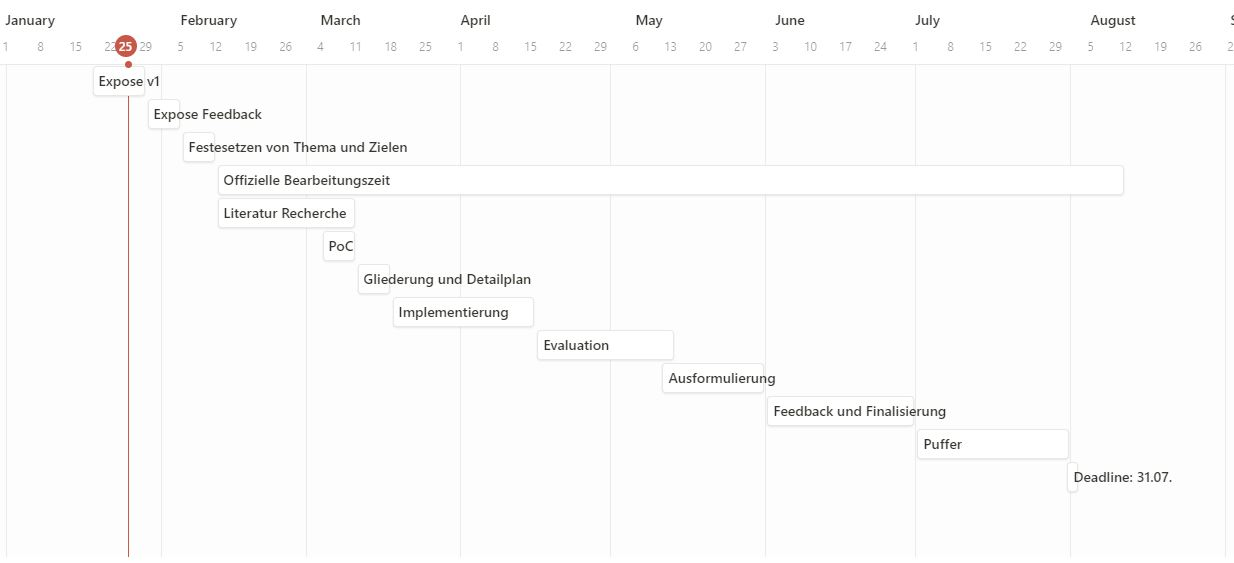
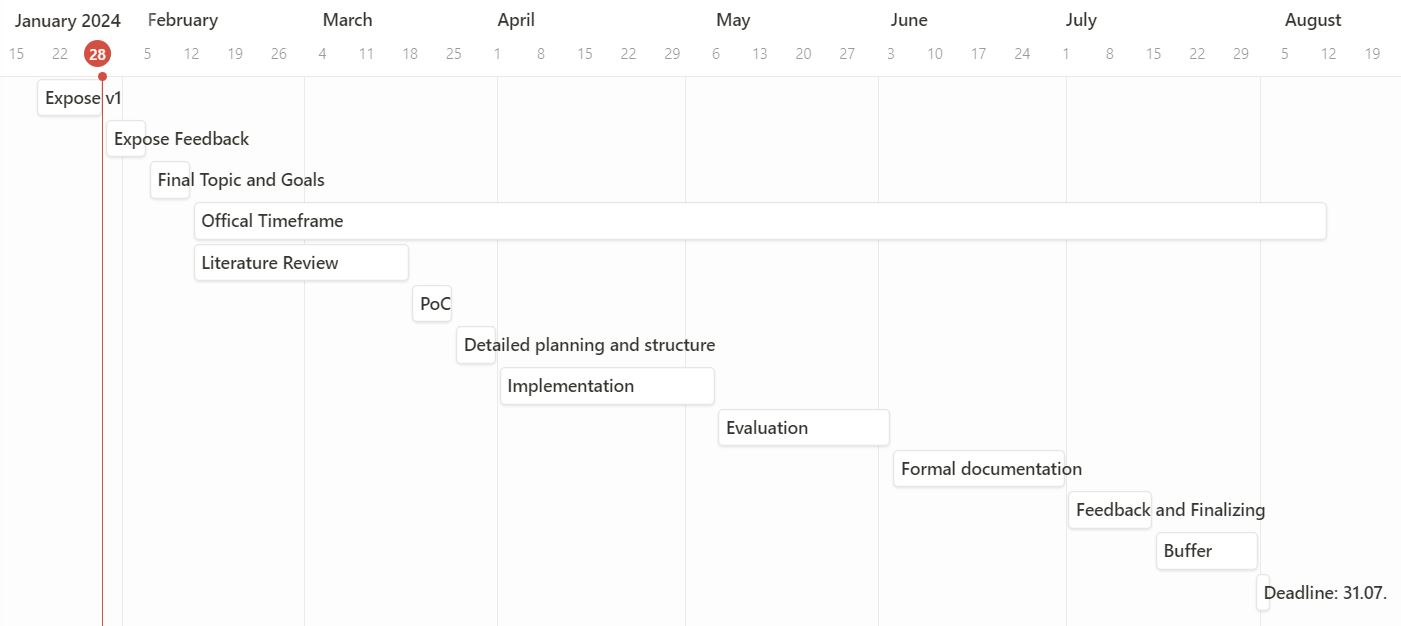
Add content

diff --git a/expose/chapters/chap2.tex b/expose/chapters/chap2.tex
@@ -1,115 +1,23 @@
-\chapter{Hardware and Softwarestack}\label{ch:hardware-and-softwarestack}
+\chapter{Timeframe}
+A preliminary timeframe of the project can be seen below, spanning a total of 24 weeks with a 2-week buffer included at the end.
+A graphical representation is provided in figure~\ref{fig:timeline}
 
-
-\section{Overview}\label{sec:overview}
-
-The mobile application will be developed for Android and tested using a Google Pixel 7.
-It will be coded in Kotlin using Android Studio.
-
-The Google ARCore API will be used to access depth information about a scene.
-The API is available by default -- no additional libraries are required.
-
-Algorithms will be implemented in C\texttt{++} in the \texttt{procedural-augmented-reality} project provided by Prof. Dr. Phillipp Jenke.
-The project will be embedded into the application and will be called through a binding layer from Kotlin.
-
-
-\section{Google ARCore SDK}
-
-ARCore is an Augmented Reality (AR) software development kit (SDK) designed by Google for multiple platforms including Android.
-It supports multiple tools like motion tracking, anchor tracking, surface tracking, depth perception and light estimation.
-\parencite{arcore}
-For the purposes of the topic of this thesis, depth understanding is the most important part,
-as it provides depth information which can be used to run algorithms for primitive detection on.
-
-\subsection{Depth API}
-Googles documentation~\parencite{arcore-doc-depth} summarizes the features of the Depth API the following way:
-
-\textit{
-    The Depth API uses a depth-from-motion algorithm to create depth images, which give a 3D view of the world.
-    Each pixel in a depth image is associated with a measurement of how far the scene is from the camera.
-    This algorithm takes multiple device images from different angles and compares them to estimate the distance to every pixel as a user moves their phone.
-    It selectively uses machine learning to increase depth processing, even with minimal motion from a user.
-    It also takes advantage of any additional hardware a user’s device might have.
-    If the device has a dedicated depth sensor, such as ToF, the algorithm automatically merges data from all available sources.
-}
-
-The device used for development (Google Pixel 7) is not equipped with a depth sensor, thus the Depth API will solely rely on cameras depth-from-motion to generate depth information.
-The inherent pitfall of camera based depth-from-motion is that tracking objects with little to no texture like walls will not yield good result.
-This might pose challenges, depending on the specific use case to be examined in the thesis.
-If, for example, objects like boxes or spheres with little to no texture are to be recognized,
-the depth API might not return sufficiently accurate depth information to correctly recognize them.
-
-\subsubsection{API Details}
-The Depth API provides the two APIs, as described by \citetitle{arcore-doc-raw-depth}~\parencite{arcore-doc-raw-depth}:
 \begin{enumerate}
-    \item The Raw Depth API provides "raw depth images that contain a very accurate depth estimate for some, but not all, pixels in the camera image."
-    It also provides a "confidence image that gives the confidence for every raw depth images pixel".
-    \item The Full Depth API provides a "single 'smoothed' depth image that contains a depth estimate for every pixel."
+    \item Official start -- 12.02.2024
+    \item Literature review -- 5 weeks
+    \item First Proof of Concept (PoC) -- 1 week
+    \item Detailed planning and structure -- 1 week
+    \item Implementation -- 5 weeks
+    \item Evaluation -- 4 weeks
+    \item Formal documentation of bachelor thesis -- 4 weeks
+    \item Feedback and finalizing -- 2 weeks
+    \item Buffer -- 2 weeks
+    \item Personal deadline 31.07.2024
+    \item Official deadline 12.08.2024 (Assuming official start on 12.02.2024)
 \end{enumerate}
 
-Example images of the two APIs can be seen in figure~\ref{fig:depth-api-images}
-
-The Raw Depth API seems to be the better choice for the use case of analyzing 3D data, as it provides more accurate data.
-The choice between the APIs needs to be investigated further for the final implementation.
-
-\subsubsection{Calculating 3D Point Cloud based on Depth Images}
-As the Depth API returns depth images and not point clouds, every pixel needs to be projected into 3D space using the camera intrinsics.
-The~\citetitle[p. 5]{arcore-codelab-rawdepth} provides an example implementation called \textit{convertRawDepthImagesTo3dPointBuffer} that solves this problem.
-
-
-
-\begin{figure}[ht!]
+\begin{figure}[t]
     \centering
-    % First row
-    \begin{subfigure}[b]{0.4\textwidth}
-        \centering
-        \includegraphics[width=0.8\linewidth]{images/depth_full-depth-image}
-        \caption{Full Depth API Depth Image}
-    \end{subfigure}%
-    \begin{subfigure}[b]{0.4\textwidth}
-        \centering
-        \includegraphics[width=0.8\linewidth]{images/depth_camera-image}
-        \caption{Camera image}
-    \end{subfigure}%
-
-    % Optional: Adjust or remove vertical spacing between the rows
-    \vspace{0.5em}
-
-    % Second row
-    \begin{subfigure}[b]{0.4\textwidth}
-        \centering
-        \includegraphics[width=0.8\linewidth]{images/depth_raw-depth-image}
-        \caption{Raw Depth API Depth Image}
-    \end{subfigure}%
-    \begin{subfigure}[b]{0.4\textwidth}
-        \centering
-        \includegraphics[width=0.8\linewidth]{images/depth_raw-depth-confidence-image}
-        \caption{Raw Depth API Confidence Image}
-    \end{subfigure}%
-
-    \caption{Full Depth vs. Raw Depth}
-    \label{fig:depth-api-images}
-\end{figure}
-
-\subsection{Confirming Compatibility with Device}
-
-The quickstart section of the documentation of the \citetitle{arcore-depth-quickstart}~\parencite{arcore-depth-quickstart} provides a sample application named \texttt{hello\_ar\_kotlin}.
-The \texttt{hello\_ar\_kotlin} application has been confirmed to run on the hardware mentioned in section~\ref{sec:overview}.
-Screenshots of the running sample application can be seen in figure~\ref{fig:hello_world_screenshot}.
-
-
-\begin{figure}[ht!]
-    \centering
-    \begin{subfigure}[t]{.45\textwidth}
-        \centering
-        \includegraphics[width=.8\textwidth]{images/depth_api_hello_world_depth}
-        \caption{Depth image, colors represent depth}
-    \end{subfigure}\hfill
-    \begin{subfigure}[t]{.45\textwidth}
-        \centering
-        \includegraphics[width=.8\textwidth]{images/depth_api_hello_world_img}
-        \caption{Full color reference. Floor is recognized as surface.}
-    \end{subfigure}
-    \caption{Screenshots of the \texttt{hello\_ar\_kotlin} sample application running on a Google Pixel 7}
-    \label{fig:hello_world_screenshot}
-\end{figure}
+    \makebox[\textwidth][c]{\includegraphics[width=1.2\textwidth]{images/timeline}}%
+    \caption{Timeline}\label{fig:timeline}
+\end{figure}%

diff --git a/expose/chapters/chap3.tex b/expose/chapters/chap3.tex
@@ -1,7 +1,116 @@
-\chapter{Timeline}
-A timeline of the project timeframe can be seen in figure~\ref{fig:timeline}
-\begin{figure}[t]
+\chapter{Hard- and Softwarestack}\label{ch:hardware-and-softwarestack}
+
+
+\section{Overview}\label{sec:overview}
+
+The mobile application will be developed for Android and tested using a Google Pixel 7.
+The implementation will be carried out in Kotlin using the Android Studio integrated development environment (IDE).
+
+The Google ARCore SDK will be used to access depth information about a scene.
+The SDK is available by default -- no additional libraries are required.
+
+Algorithms will be implemented in C\texttt{++} in the \texttt{procedural-augmented-reality} project provided by Prof. Dr. Phillipp Jenke.
+This project will be integrated into the application and interfaced with Kotlin through a binding layer.
+
+
+\section{Google ARCore SDK}
+
+Google's ARCore is a comprehensive Augmented Reality (AR) software development kit (SDK)  for multiple platforms including Android.
+It encompasses a broad array of features including motion tracking, anchor tracking, surface tracking, depth perception, and light estimation.
+\parencite{arcore}
+For the purposes of the topic of this thesis, the depth understanding functionality will be the main focus,
+This thesis will primarily utilize ARCore's depth perception capability,
+which provides the depth data required for the geometric primitive detection algorithms.
+
+\subsection{Depth API}
+Googles documentation~\parencite{arcore-doc-depth} summarizes the features of the Depth API the following way:
+
+\textit{
+    The Depth API uses a depth-from-motion algorithm to create depth images, which give a 3D view of the world.
+    Each pixel in a depth image is associated with a measurement of how far the scene is from the camera.
+    This algorithm takes multiple device images from different angles and compares them to estimate the distance to every pixel as a user moves their phone.
+    It selectively uses machine learning to increase depth processing, even with minimal motion from a user.
+    It also takes advantage of any additional hardware a user’s device might have.
+    If the device has a dedicated depth sensor, such as ToF, the algorithm automatically merges data from all available sources.
+}
+
+The development device, Google Pixel 7, does not have a depth sensor.
+Consequently, the Depth API will exclusively utilize depth-from-motion techniques to derive depth information from camera images.
+However, it is important to note that camera-based depth-from-motion has limitations when it comes to tracking objects with minimal texture, such as walls.
+This drawback could potentially present challenges depending on the particular use case being investigated in the thesis.
+For instance, if the objective is to recognize objects like boxes or spheres that lack texture, the accuracy of depth information obtained from the Depth API may not be sufficient for accurate recognition.
+
+\subsubsection{API Details}
+The Depth API provides two interfaces, as described by \citetitle{arcore-doc-raw-depth}~\parencite{arcore-doc-raw-depth}:
+\begin{enumerate}
+    \item The Raw Depth API provides "raw depth images that contain a very accurate depth estimate for some, but not all, pixels in the camera image."
+    It also provides a "confidence image that gives the confidence for every raw depth images pixel".
+    \item The Full Depth API provides a "single 'smoothed' depth image that contains a depth estimate for every pixel."
+\end{enumerate}
+
+Example images illustrating the output of the two APIs provided by the Depth API can be seen in figure~\ref{fig:depth-api-images}
+
+The Raw Depth API appears to be the preferable option for the use case of analyzing 3D data, as it provides more accurate data.
+The choice between the APIs needs to be investigated further for the final implementation.
+
+\subsubsection{Calculating 3D Point Cloud based on Depth Images}
+The Depth API produces depth images instead of point clouds, requiring each pixel to be projected into three-dimensional space using camera intrinsics.
+The~\citetitle[p. 5]{arcore-codelab-rawdepth}~\parencite{arcore-codelab-rawdepth} provides a sample implementation called \textit{convertRawDepthImagesTo3dPointBuffer()} which addresses this problem.
+
+
+
+\begin{figure}[ht!]
     \centering
-    \includegraphics[width=\linewidth]{images/timeline}
-    \caption{Timeline}\label{fig:timeline}
-\end{figure}%
+    % First row
+    \begin{subfigure}[b]{0.4\textwidth}
+        \centering
+        \includegraphics[width=0.8\linewidth]{images/depth_full-depth-image}
+        \caption{Full Depth API Depth Image}
+    \end{subfigure}%
+    \begin{subfigure}[b]{0.4\textwidth}
+        \centering
+        \includegraphics[width=0.8\linewidth]{images/depth_camera-image}
+        \caption{Camera image}
+    \end{subfigure}%
+
+    % Optional: Adjust or remove vertical spacing between the rows
+    \vspace{0.5em}
+
+    % Second row
+    \begin{subfigure}[b]{0.4\textwidth}
+        \centering
+        \includegraphics[width=0.8\linewidth]{images/depth_raw-depth-image}
+        \caption{Raw Depth API Depth Image}
+    \end{subfigure}%
+    \begin{subfigure}[b]{0.4\textwidth}
+        \centering
+        \includegraphics[width=0.8\linewidth]{images/depth_raw-depth-confidence-image}
+        \caption{Raw Depth API Confidence Image}
+    \end{subfigure}%
+
+    \caption{Full Depth vs. Raw Depth}
+    \label{fig:depth-api-images}
+\end{figure}
+
+\subsection{Confirming Compatibility with Device}
+
+The quickstart section of the documentation of the \citetitle{arcore-depth-quickstart}~\parencite{arcore-depth-quickstart} provides a sample application named \texttt{hello\_ar\_kotlin}.
+The \texttt{hello\_ar\_kotlin} application has been confirmed to run on the hardware mentioned in section~\ref{sec:overview}.
+Screenshots of the running sample application can be seen in figure~\ref{fig:hello_world_screenshot}.
+
+
+\begin{figure}[ht!]
+    \centering
+    \begin{subfigure}[t]{.45\textwidth}
+        \centering
+        \includegraphics[width=.8\textwidth]{images/depth_api_hello_world_depth}
+        \caption{Depth image, colors represent depth}
+    \end{subfigure}\hfill
+    \begin{subfigure}[t]{.45\textwidth}
+        \centering
+        \includegraphics[width=.8\textwidth]{images/depth_api_hello_world_img}
+        \caption{Full color reference. Floor is recognized as surface.}
+    \end{subfigure}
+    \caption{Screenshots of the \texttt{hello\_ar\_kotlin} sample application running on the development device}
+    \label{fig:hello_world_screenshot}
+\end{figure}

diff --git a/expose/chaptersOther/appendix.tex b/expose/chaptersOther/appendix.tex
@@ -5,18 +5,18 @@
 \printbibliography
 
 % markiert den Anfang des Anhangs
-\appendix
+%\appendix
 
 % ein Kapitel, das nicht numeriert, aber trotzdem ins Inhaltsverzeichnis
 % aufgenommen wird
-\addchap{Anhang}
-
-Hier beginnt der Anhang.  Siehe die Anmerkungen zur Sinnhaftigkeit eines
-Anhangs in Abschnitt~\ref{sec-app} auf Seite~\pageref{sec-app}.
-
-Der Anhang kann wie das eigentliche Dokument in Kapitel und Abschnitte
-unterteilt werden.  Der Befehl \verb|\appendix| sorgt im Wesentlichen nur für
-eine andere Nummerierung.
+%\addchap{Anhang}
+%
+%Hier beginnt der Anhang.  Siehe die Anmerkungen zur Sinnhaftigkeit eines
+%Anhangs in Abschnitt~\ref{sec-app} auf Seite~\pageref{sec-app}.
+%
+%Der Anhang kann wie das eigentliche Dokument in Kapitel und Abschnitte
+%unterteilt werden.  Der Befehl \verb|\appendix| sorgt im Wesentlichen nur für
+%eine andere Nummerierung.
 
 % neue Seite
 \clearpage
@@ -25,18 +25,18 @@ eine andere Nummerierung.
 \thispagestyle{empty}
 
 % keine Nummerierung, keine Aufnahme ins Inhaltsverzeichnis
-\section*{Eigenständigkeitserklärung}
+%\section*{Eigenständigkeitserklärung}
 
 % Hier müssen Sie natürlich den Titel der Arbeit sowie Ort und Datum ersetzen:
-Hiermit versichere ich, dass ich die vorliegende Bachelorarbeit mit dem Titel
-\begin{center}
-  \textbf{Viele zufällige Zahlen}
-\end{center}
-selbstständig und nur mit den angegebenen Hilfsmitteln verfasst habe.  Alle
-Passagen, die ich wörtlich aus der Literatur oder aus anderen Quellen wie
-z.\,B. Internetseiten übernommen habe, habe ich deutlich als Zitat mit Angabe
-der Quelle kenntlich gemacht.
-
-\vspace{2cm}
-
-Hamburg, 21.\ Dezember 1940
+%Hiermit versichere ich, dass ich die vorliegende Bachelorarbeit mit dem Titel
+%\begin{center}
+%  \textbf{Viele zufällige Zahlen}
+%\end{center}
+%selbstständig und nur mit den angegebenen Hilfsmitteln verfasst habe.  Alle
+%Passagen, die ich wörtlich aus der Literatur oder aus anderen Quellen wie
+%z.\,B. Internetseiten übernommen habe, habe ich deutlich als Zitat mit Angabe
+%der Quelle kenntlich gemacht.
+%
+%\vspace{2cm}
+%
+%Hamburg, 21.\ Dezember 1940

diff --git a/expose/chapters/chap1.tex b/expose/chapters/chap1.tex
@@ -9,11 +9,12 @@ This thesis will focus on detecting geometric primitives like cubes, spheres, an
 
 \section{Research Aims and Questions}
 
-The precise research question for the thesis is still to be decided.
+The precise research question for the thesis is still to be decided on.
 The following questions are under consideration:
 \begin{enumerate}
     \item What is the nature of the objects to be detected? Should the items be geometric primitives themselves, or should more complex items be approximated using geometric primitives?
     \item How should the selection of objects for tracking be determined? Should the algorithm autonomously identify the most suitable approximation, or should the process be guided by user interaction, such as selecting an object on the screen to initiate detection?
+    \item Should multiple objects be detected at the same time?
     \item Should the objects be tracked? If yes, under which conditions? Should tracking occur:
     \begin{enumerate}
         \item while the device is in motion,
@@ -21,4 +22,5 @@ The following questions are under consideration:
         \item under a combination of both conditions?
     \end{enumerate}
     \item Should the detection be reevaluated as new data arrives?
+    \item Which assumptions can be made about the environment?
 \end{enumerate}

diff --git a/expose/chaptersOther/toc.tex b/expose/chaptersOther/toc.tex
@@ -7,10 +7,10 @@
 \tableofcontents
 
 % Abbildungsverzeichnis, kann evtl. weggelassen werden
-\listoffigures
+%\listoffigures
 
 % Tabellenverzeichnis, kann evtl. weggelassen werden
-\listoftables
+%\listoftables
 
 % weitere Verzeichnisse (z.B. Codeblöcke) sind theoretisch möglich
 

diff --git a/expose/chaptersOther/title.tex b/expose/chaptersOther/title.tex
@@ -49,7 +49,7 @@
   \vspace{1cm}
 
   % hier korrektes Datum und Ihren Namen eingeben
-  vorgelegt am 31. Januar 2024\\
+  vorgelegt am 29. Januar 2024\\
   Hugo Protsch
 
   % letzter vertikaler Abstand für heute
